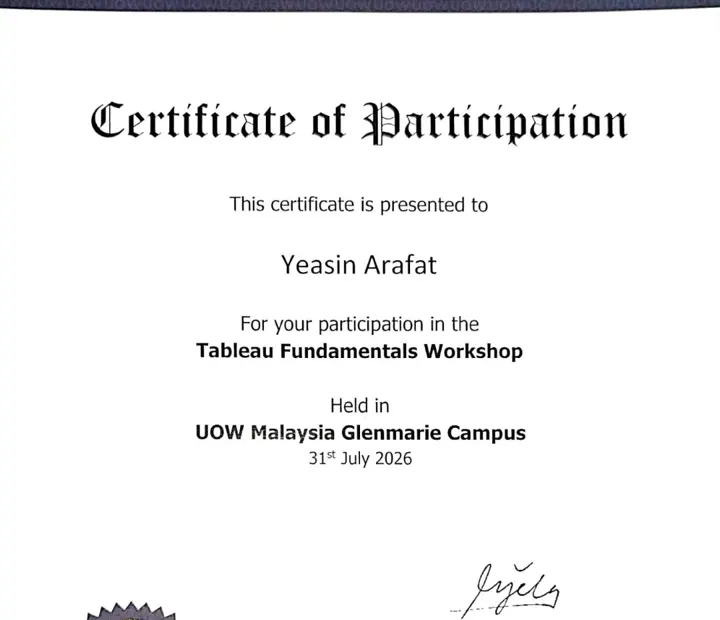
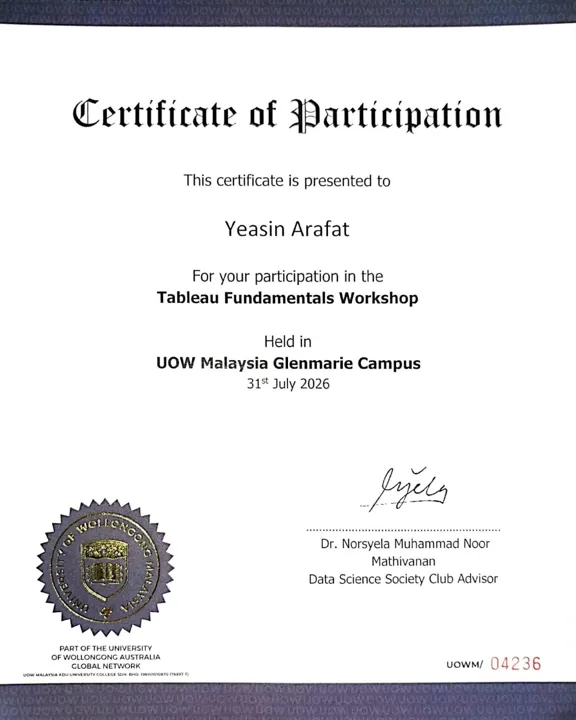
Credentials: show the full Top Coder and Tableau certificates, uncropped (#30)
Claude-Session: https://claude.ai/code/session_01RGRRUPax8QG7kBFdgLMmX8

diff --git a/index.html b/index.html
@@ -335,7 +335,7 @@ main{overflow-x:clip}
 .cred:hover{box-shadow:var(--sh2)}
 .cred-img{margin:0;border:0;border-radius:0;border-right:1px solid var(--line);background:#fff;display:block;min-height:220px;box-shadow:none}
 .cred-img:hover{transform:none;box-shadow:none}
-.cred-img img{width:100%;height:100%;object-fit:cover;object-position:top}
+.cred-img img{width:100%;height:100%;object-fit:contain;object-position:center;padding:8px}
 .cred-img.seal{background:var(--raise);display:grid;place-items:center}
 .cred-img.seal span{font-size:2rem;font-weight:600;letter-spacing:-.03em;color:var(--cobalt);width:92px;height:92px;border-radius:var(--r);border:1.5px solid var(--cobalt);background:var(--panel);display:grid;place-items:center}
 .cred-body{padding:20px 22px 22px;display:flex;flex-direction:column;gap:7px;min-width:0}
